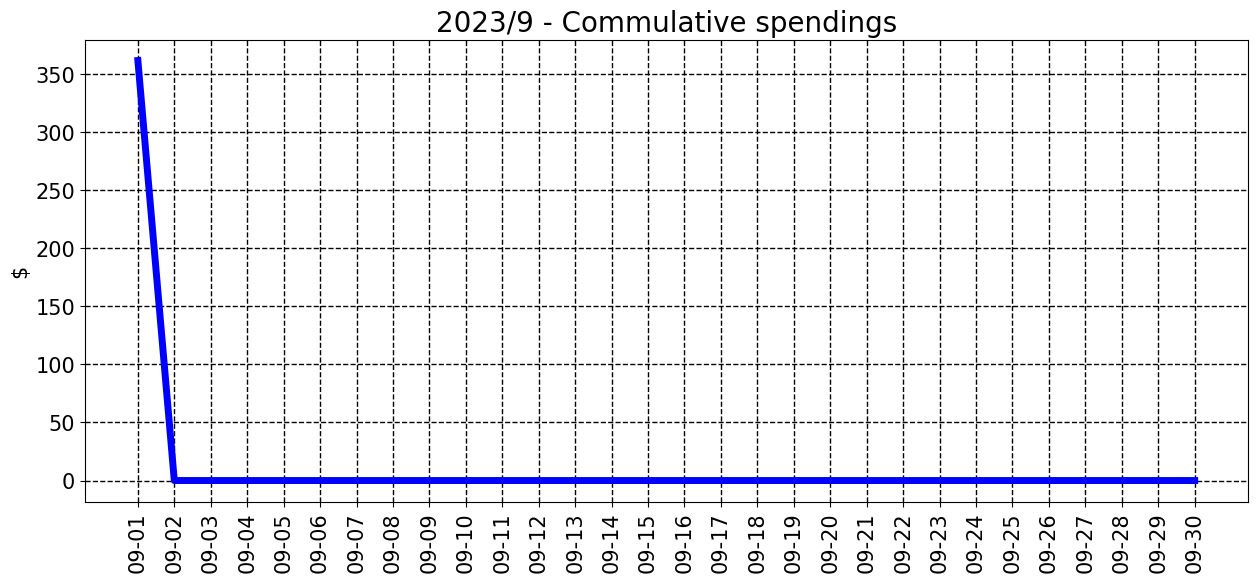
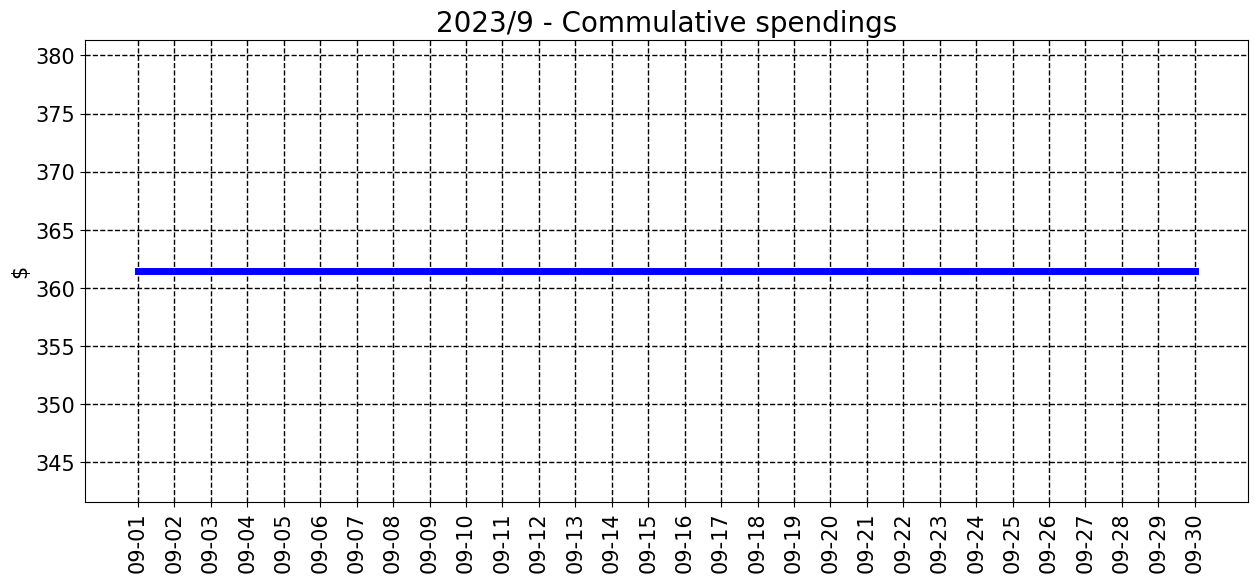
commit from python

Changed region(s): [[0.031, 0.0619, 0.9928, 0.8351], [0.4964, 0.8969, 0.5274, 0.9897], [0.2482, 0.8969, 0.2792, 0.9897]]

diff --git a/README.md b/README.md
@@ -7,7 +7,7 @@ __________________________________
 <sub><sup>
 | Spent | Avg daily | End of month projection | Spent since 2023/7 |
 |---|---|---|---|
-| $0.0  |  $0.0  | $0.0  |  $5201.0  |
+| $361.0  |  $180.7  | $5421.0  |  $5562.0  |
 </sub></sup>
 __________________________________
 ![graph_9_sum](graph_9_sum.png)
